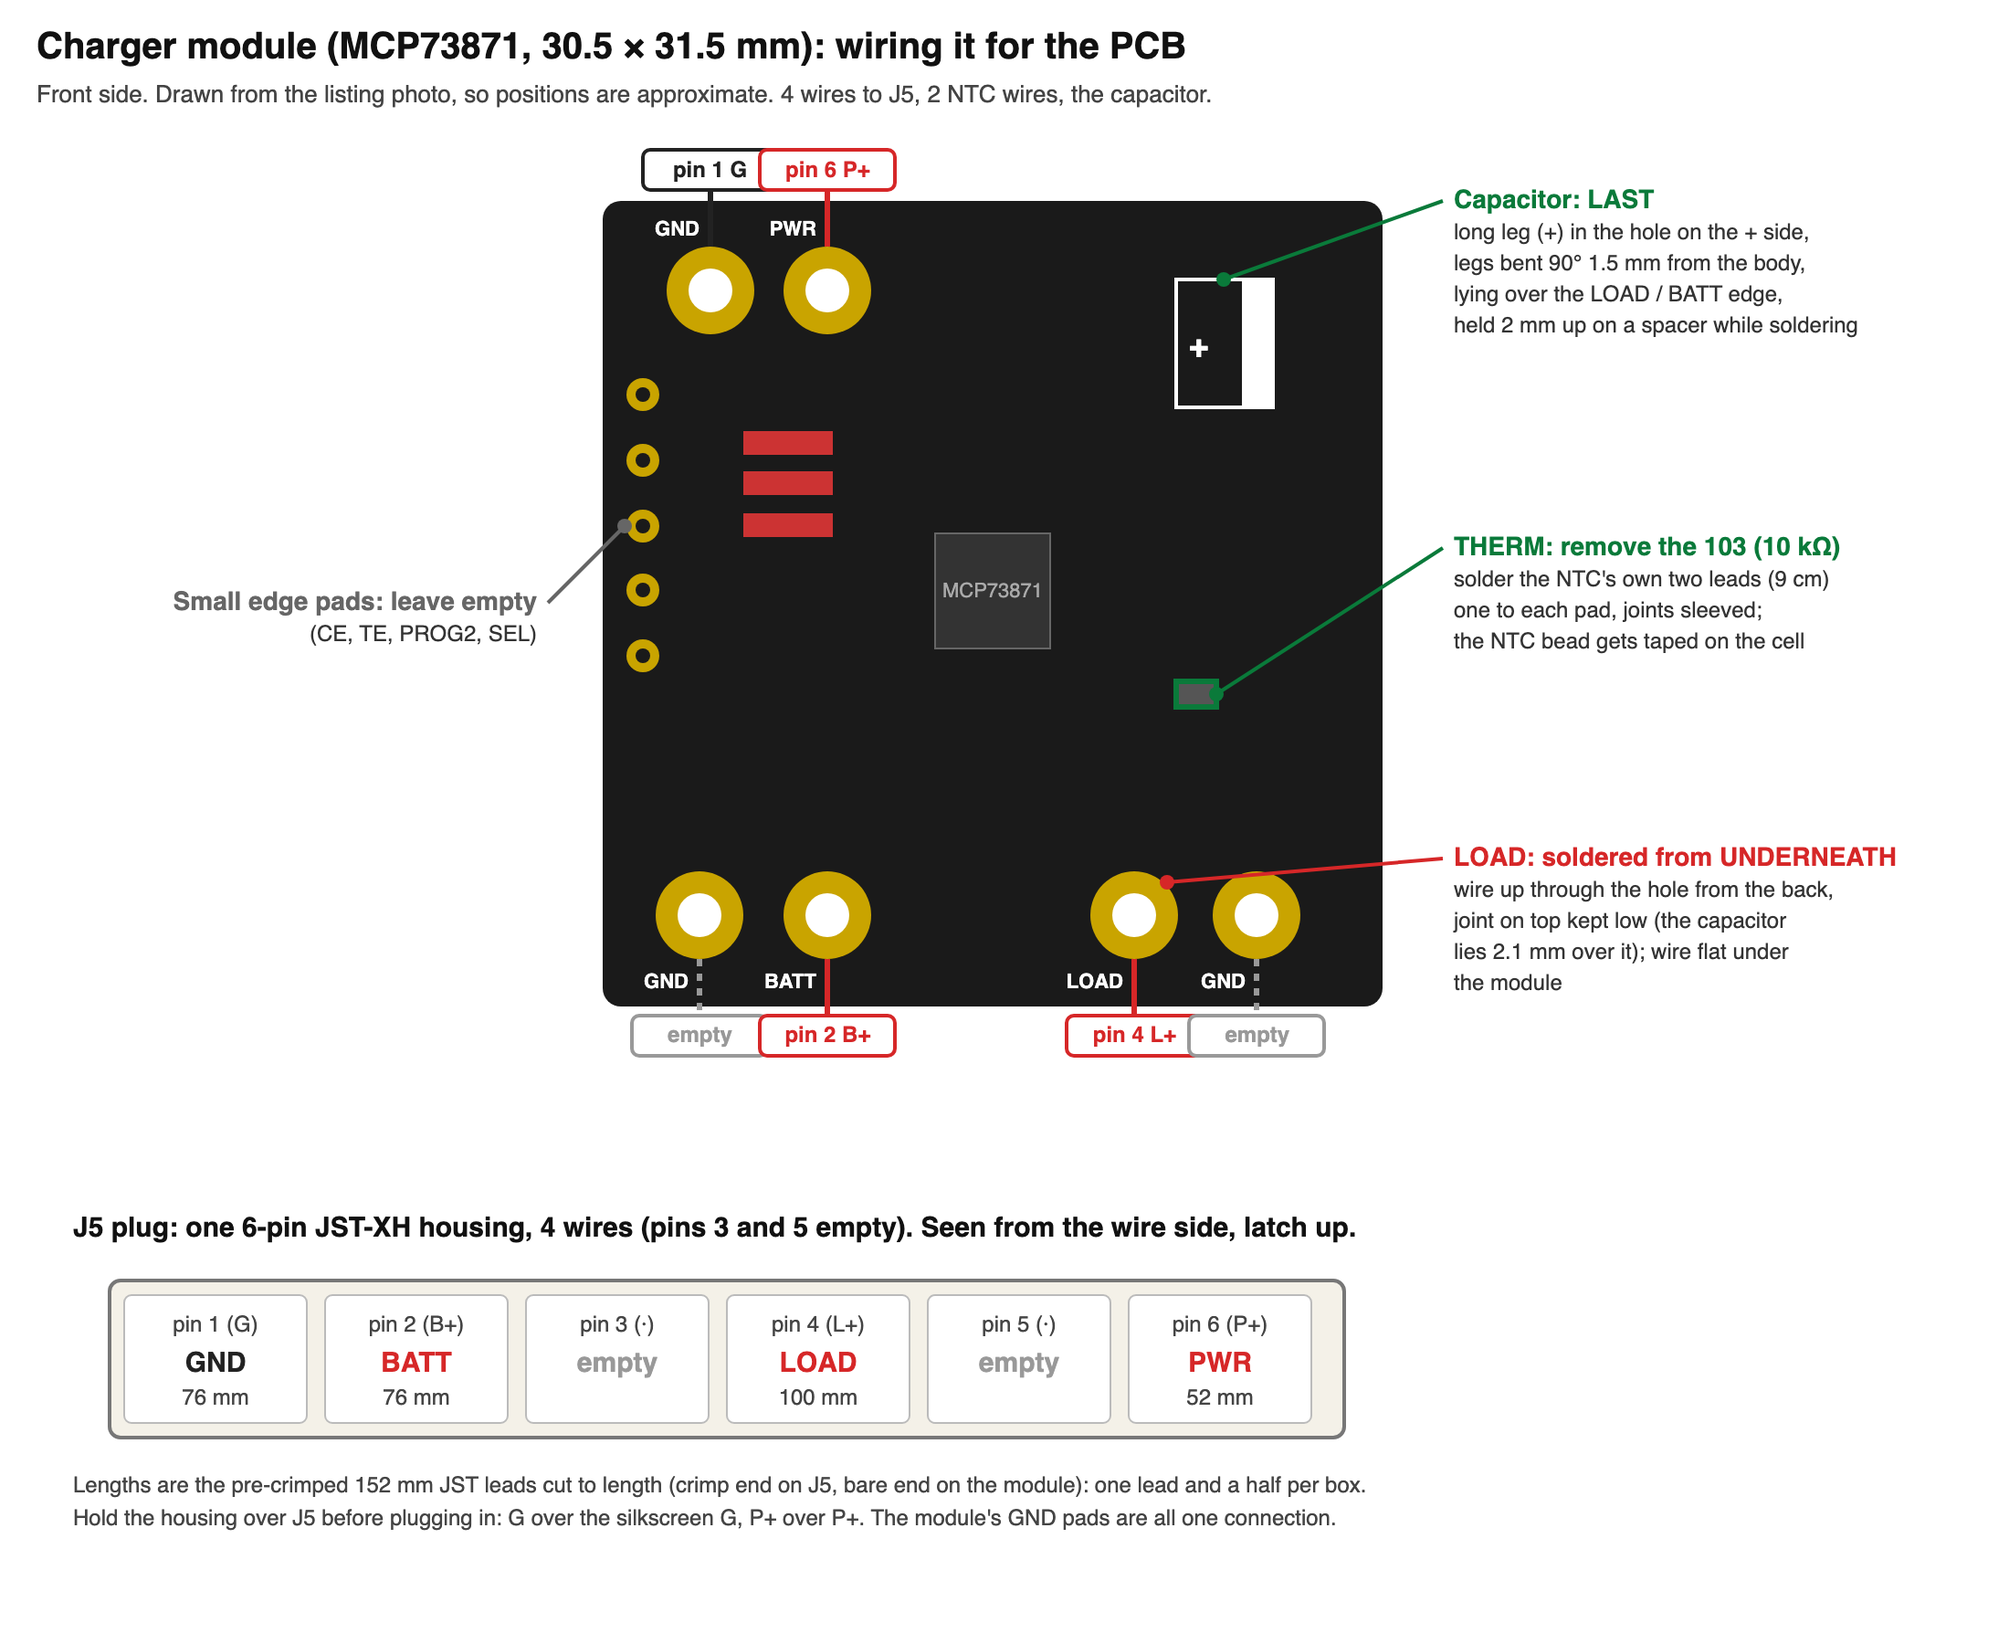
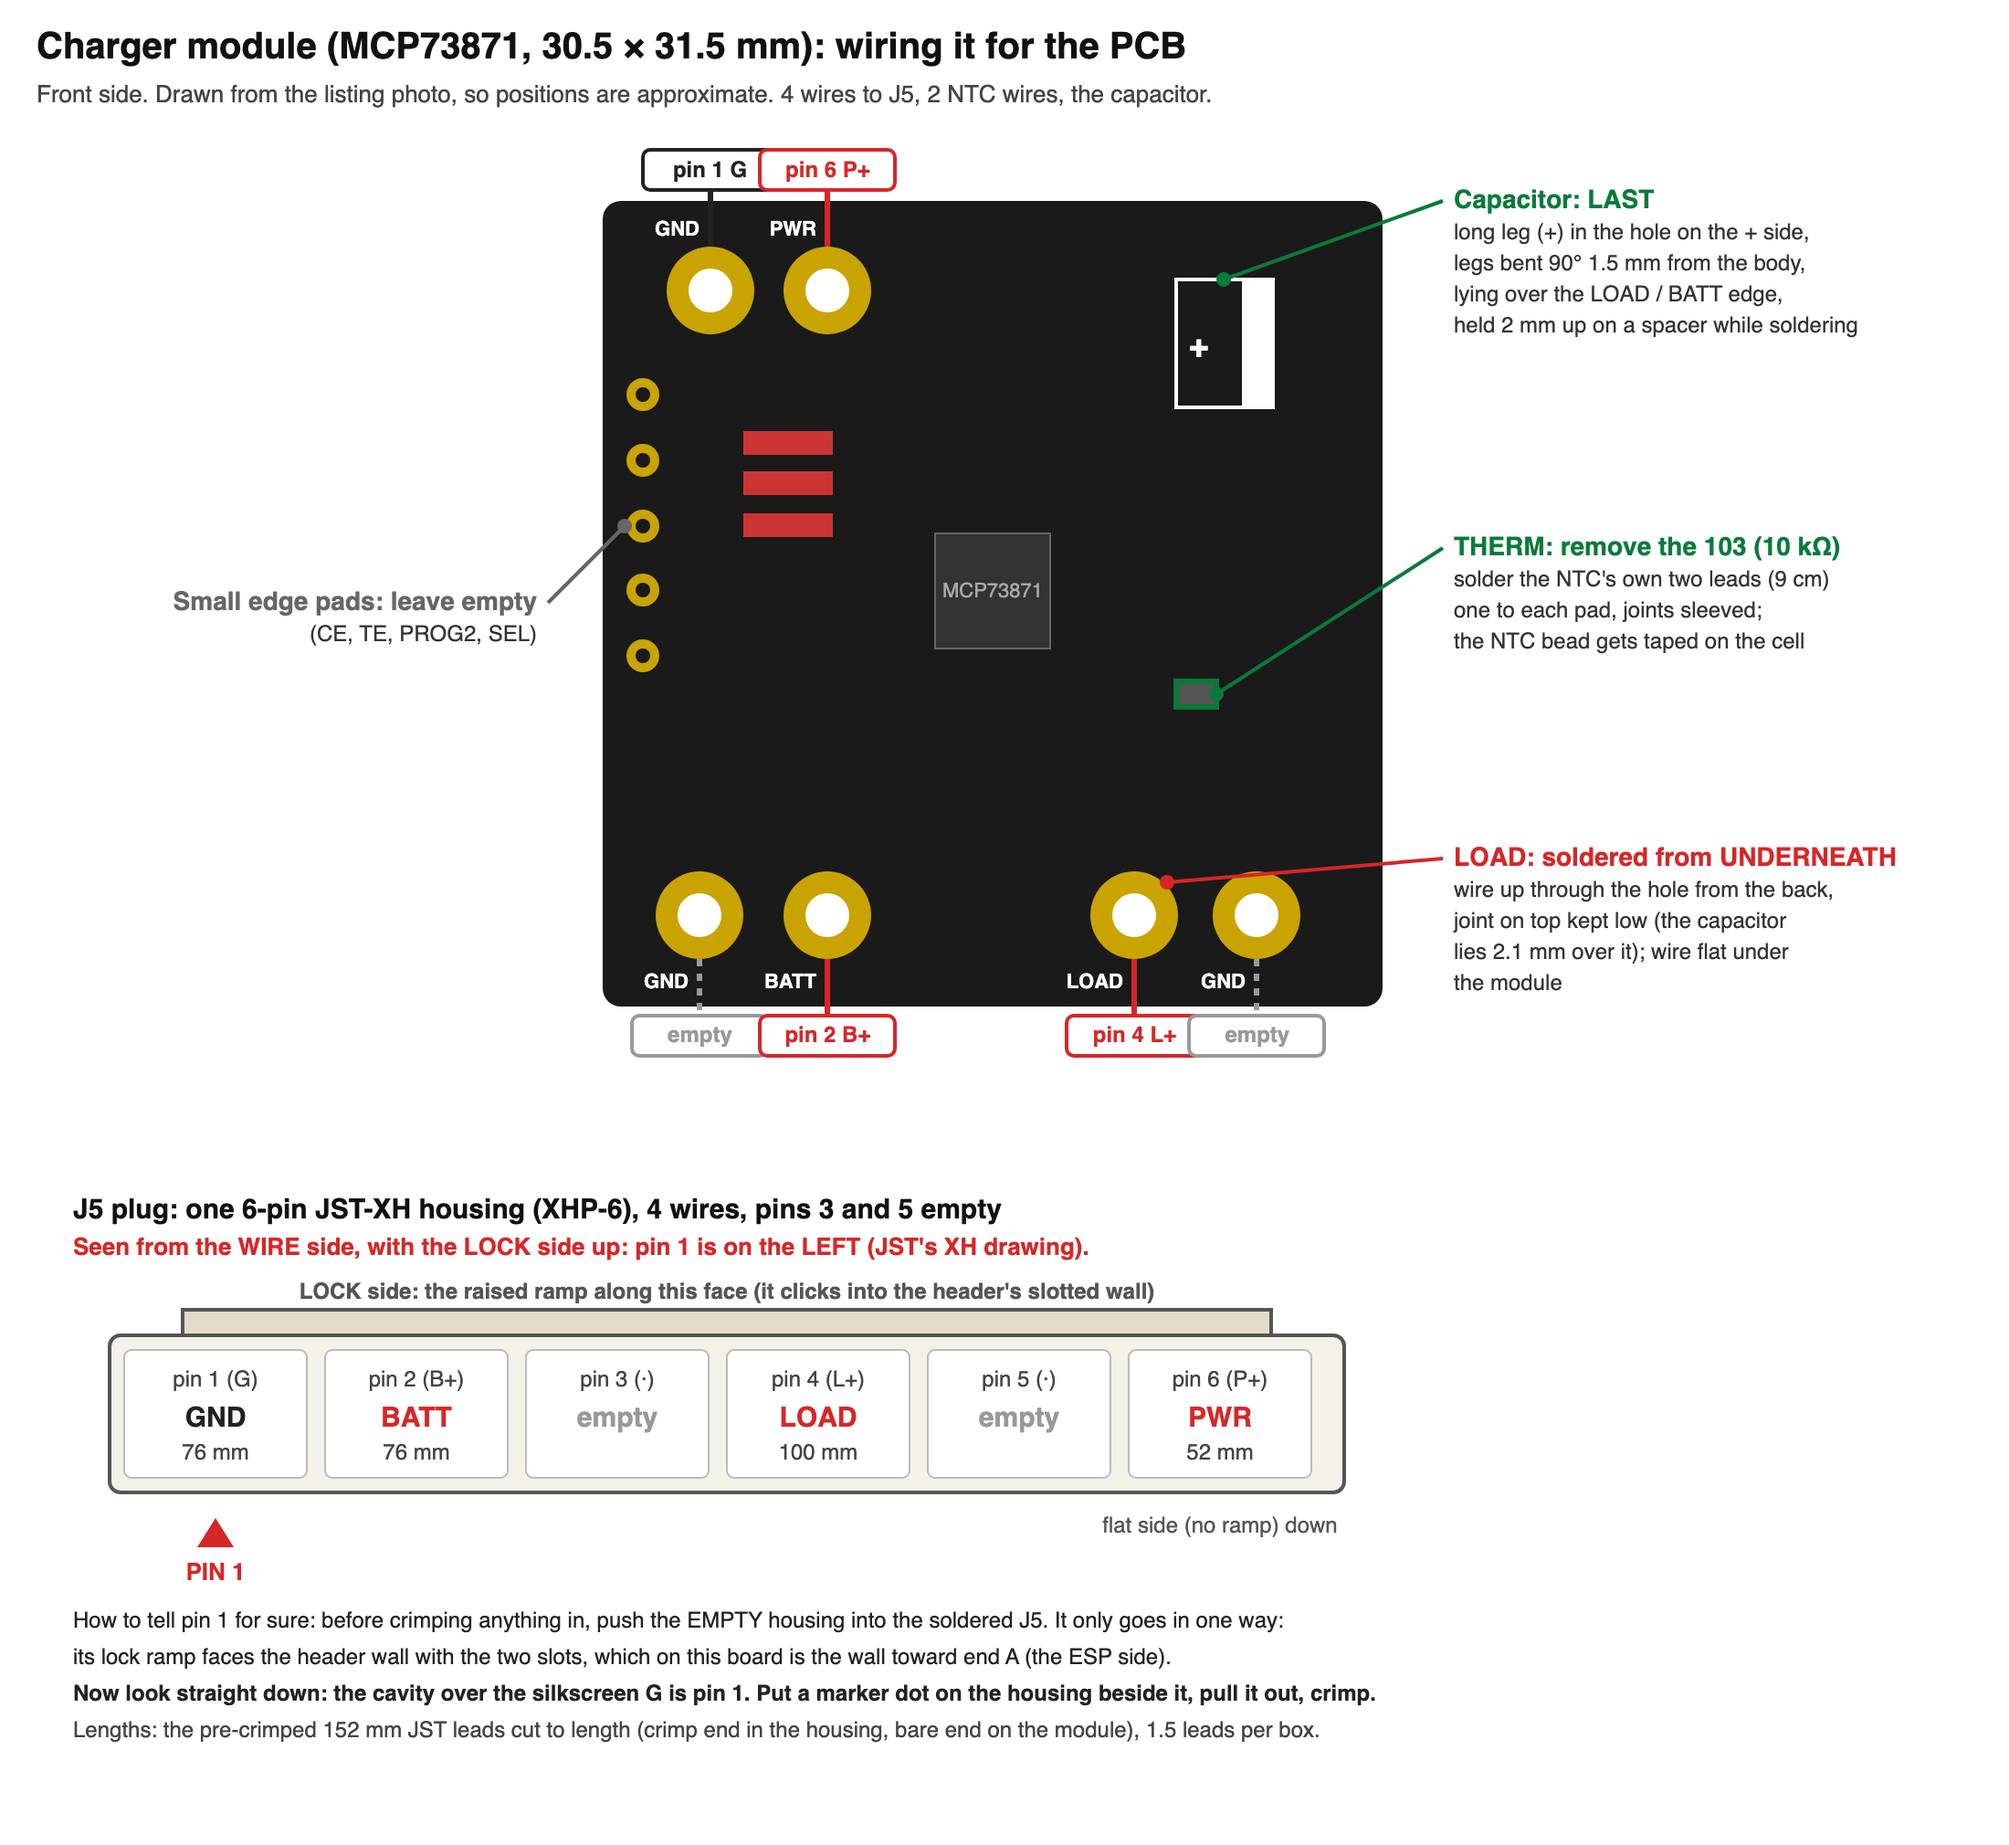
PCB build guide: J5 plug picture shows the lock side and pin 1 (from JST's XH drawing)
Wire side, lock ramp up: pin 1 on the left. Empty-housing check against the silkscreen G before crimping.
J4/J5 headers: the slotted wall faces end A.

diff --git a/tools/pcb_guide.py b/tools/pcb_guide.py
@@ -253,7 +253,7 @@ def charger_picture():
 
     def P(x, y):
         return ox + k * x, oy + k * y
-    o = ['<svg xmlns="http://www.w3.org/2000/svg" width="1100" height="900" font-family="Helvetica,Arial">',
+    o = ['<svg xmlns="http://www.w3.org/2000/svg" width="1100" height="1010" font-family="Helvetica,Arial">',
          '<rect width="100%" height="100%" fill="#fff"/>',
          text(20, 32, 'Charger module (MCP73871, 30.5 × 31.5 mm): wiring it for the PCB', 20, '#111', 'bold', 'start', halo=False),
          text(20, 56, 'Front side. Drawn from the listing photo, so positions are approximate. 4 wires to J5, 2 NTC wires, the capacitor.',
@@ -308,22 +308,36 @@ def charger_picture():
     call(ex - 10, ey, 300, 330, ['Small edge pads: leave empty', '(CE, TE, PROG2, SEL)'], '#666', 'end')
     # the J5 housing
     by = oy + bh * k + 150
-    o.append(text(40, by - 24, 'J5 plug: one 6-pin JST-XH housing, 4 wires (pins 3 and 5 empty). Seen from the wire side, latch up.',
-                  15, '#111', 'bold', 'start', halo=False))
+    # JST XH drawing (eXH.pdf p.2, PCB layout "viewed from the connector mounting surface"): with the LOCK SIDE toward
+    # you, circuit 1 is on the right; so from the wire side with the lock side UP, pin 1 is on the LEFT. On this board
+    # the header's lock wall (the one with the two slots, KiCad's -y side) faces end A.
+    o.append(text(40, by - 34, 'J5 plug: one 6-pin JST-XH housing (XHP-6), 4 wires, pins 3 and 5 empty', 15, '#111', 'bold', 'start', halo=False))
+    o.append(text(40, by - 14, 'Seen from the WIRE side, with the LOCK side up: pin 1 is on the LEFT (JST\'s XH drawing).', 13, '#d62728', 'bold', 'start', halo=False))
     cav = [('1', 'G', 'GND', '#222', '76 mm'), ('2', 'B+', 'BATT', '#d62728', '76 mm'), ('3', '·', 'empty', '#999', ''),
            ('4', 'L+', 'LOAD', '#d62728', '100 mm'), ('5', '·', 'empty', '#999', ''), ('6', 'P+', 'PWR', '#d62728', '52 mm')]
-    hx0 = 60
-    o.append('<rect x="%.0f" y="%.0f" width="%.0f" height="86" rx="6" fill="#f4f1e8" stroke="#777" stroke-width="2"/>' % (hx0, by, 110 * 6 + 16))
+    hx0, hy0 = 60, by + 30
+    hw = 110 * 6 + 16
+    # the lock: a raised ramp along one long face, between the end walls
+    o.append('<rect x="%.0f" y="%.0f" width="%.0f" height="14" fill="#e3dccb" stroke="#555" stroke-width="2"/>' % (hx0 + 40, hy0 - 14, hw - 80))
+    o.append(text(hx0 + hw / 2, hy0 - 20, 'LOCK side: the raised ramp along this face (it clicks into the header\'s slotted wall)', 12, '#555', 'bold', halo=False))
+    o.append('<rect x="%.0f" y="%.0f" width="%.0f" height="86" rx="6" fill="#f4f1e8" stroke="#555" stroke-width="2"/>' % (hx0, hy0, hw))
     for q, (pin, silk, pad, c, cut) in enumerate(cav):
         x_ = hx0 + 8 + 110 * q
-        o.append('<rect x="%.0f" y="%.0f" width="100" height="70" rx="4" fill="#fff" stroke="#bbb"/>' % (x_, by + 8))
-        o.append(text(x_ + 50, by + 28, 'pin %s (%s)' % (pin, silk), 12, '#444', halo=False))
-        o.append(text(x_ + 50, by + 50, pad, 15, c, 'bold', halo=False))
-        o.append(text(x_ + 50, by + 68, cut, 12, '#444', halo=False))
-    o.append(text(40, by + 116, 'Lengths are the pre-crimped 152 mm JST leads cut to length (crimp end on J5, bare end on the module): '
-                  'one lead and a half per box.', 12, '#444', anchor='start', halo=False))
-    o.append(text(40, by + 134, 'Hold the housing over J5 before plugging in: G over the silkscreen G, P+ over P+. '
-                  'The module\'s GND pads are all one connection.', 12, '#444', anchor='start', halo=False))
+        o.append('<rect x="%.0f" y="%.0f" width="100" height="70" rx="4" fill="#fff" stroke="#bbb"/>' % (x_, hy0 + 8))
+        o.append(text(x_ + 50, hy0 + 28, 'pin %s (%s)' % (pin, silk), 12, '#444', halo=False))
+        o.append(text(x_ + 50, hy0 + 50, pad, 15, c, 'bold', halo=False))
+        o.append(text(x_ + 50, hy0 + 68, cut, 12, '#444', halo=False))
+    # pin 1 arrow
+    o.append('<polygon points="%.0f,%.0f %.0f,%.0f %.0f,%.0f" fill="#d62728"/>' % (hx0 + 58, hy0 + 100, hx0 + 48, hy0 + 116, hx0 + 68, hy0 + 116))
+    o.append(text(hx0 + 58, hy0 + 134, 'PIN 1', 13, '#d62728', 'bold', halo=False))
+    o.append(text(hx0 + 8 + 110 * 5 + 50, hy0 + 108, 'flat side (no ramp) down', 12, '#555', halo=False))
+    ty0 = hy0 + 160
+    for i, t in enumerate([
+            'How to tell pin 1 for sure: before crimping anything in, push the EMPTY housing into the soldered J5. It only goes in one way:',
+            'its lock ramp faces the header wall with the two slots, which on this board is the wall toward end A (the ESP side).',
+            'Now look straight down: the cavity over the silkscreen G is pin 1. Put a marker dot on the housing beside it, pull it out, crimp.',
+            'Lengths: the pre-crimped 152 mm JST leads cut to length (crimp end in the housing, bare end on the module), 1.5 leads per box.']):
+        o.append(text(40, ty0 + 20 * i, t, 12, '#222' if i < 3 else '#444', 'bold' if i == 2 else 'normal', 'start', halo=False))
     o.append('</svg>')
     open(os.path.join(OUT, 'pcb-build-charger.svg'), 'w').write('\n'.join(o))
     return 'pcb-build-charger.svg'
@@ -550,8 +564,10 @@ def md():
     a('| J8 | JST-ZH 2-pin (B2B-ZR), the small one | solar (optional) | **−  +** |')
     a('')
     a('**Orientation is everything here.** The headers only take a plug one way, so a header soldered backwards puts the')
-    a('battery in backwards. Match each header to its silkscreen outline. Then, before soldering, push the actual plug in and')
-    a('hold it over the board: the cell\'s **red wire must sit over +**. Solder one pin, check it sits flat, then the rest.')
+    a('battery in backwards. On the two XH headers (J4, J5) **the wall with the two slots faces end A** (toward the ESP); the')
+    a('silkscreen outline shows those slots. That\'s the side the plug\'s lock ramp clicks into. Then, before soldering, push the')
+    a('actual plug in and hold it over the board: the cell\'s **red wire must sit over +**. Solder one pin, check it sits flat,')
+    a('then the rest.')
     a('')
     # ---- step 7
     a('## Step 7: RJ12 jacks (3)')
@@ -643,7 +659,10 @@ def md():
     a('5. **Check:** the capacitor\'s + leg beeps to the PWR pad, its − leg to GND.')
     a('6. **Crimp ends into the 6-pin housing:** pin 1 GND, pin 2 BATT, pin 4 LOAD, pin 6 PWR; 3 and 5 empty. If you have a')
     a('   pre-made 6-wire lead, pull the pin 3 and 5 wires out (lift the tab over each crimp with a pin) or cut them flush.')
-    a('7. Hold the housing over J5: **G over the silkscreen G, P+ over P+**.')
+    a('7. **Which end is pin 1:** from the wire side with the housing\'s **lock ramp up**, pin 1 is on the **left** (JST\'s XH')
+    a('   drawing). To be sure, do it before crimping: push the **empty** housing into the soldered J5 (it only fits one way, lock')
+    a('   ramp toward the header\'s slotted wall, which faces end A), look down, and mark the cavity over the silkscreen **G** with')
+    a('   a dot. That\'s pin 1.')
     a('')
     a('The dev board wired all six pads (three − wires onto one GND rail). That\'s the same circuit: the PCB\'s J5 has room for one')
     a('GND, and the heavy motor current returns to the battery through the PCB, not through this wire.')

diff --git a/docs/pcb-build.md b/docs/pcb-build.md
@@ -156,8 +156,10 @@ Three different headers, so no plug fits the wrong one:
 | J8 | JST-ZH 2-pin (B2B-ZR), the small one | solar (optional) | **−  +** |
 
 **Orientation is everything here.** The headers only take a plug one way, so a header soldered backwards puts the
-battery in backwards. Match each header to its silkscreen outline. Then, before soldering, push the actual plug in and
-hold it over the board: the cell's **red wire must sit over +**. Solder one pin, check it sits flat, then the rest.
+battery in backwards. On the two XH headers (J4, J5) **the wall with the two slots faces end A** (toward the ESP); the
+silkscreen outline shows those slots. That's the side the plug's lock ramp clicks into. Then, before soldering, push the
+actual plug in and hold it over the board: the cell's **red wire must sit over +**. Solder one pin, check it sits flat,
+then the rest.
 
 ## Step 7: RJ12 jacks (3)
 
@@ -244,7 +246,10 @@ The order matters, because the capacitor lies over the LOAD pad and the THERM pa
 5. **Check:** the capacitor's + leg beeps to the PWR pad, its − leg to GND.
 6. **Crimp ends into the 6-pin housing:** pin 1 GND, pin 2 BATT, pin 4 LOAD, pin 6 PWR; 3 and 5 empty. If you have a
    pre-made 6-wire lead, pull the pin 3 and 5 wires out (lift the tab over each crimp with a pin) or cut them flush.
-7. Hold the housing over J5: **G over the silkscreen G, P+ over P+**.
+7. **Which end is pin 1:** from the wire side with the housing's **lock ramp up**, pin 1 is on the **left** (JST's XH
+   drawing). To be sure, do it before crimping: push the **empty** housing into the soldered J5 (it only fits one way, lock
+   ramp toward the header's slotted wall, which faces end A), look down, and mark the cavity over the silkscreen **G** with
+   a dot. That's pin 1.
 
 The dev board wired all six pads (three − wires onto one GND rail). That's the same circuit: the PCB's J5 has room for one
 GND, and the heavy motor current returns to the battery through the PCB, not through this wire.
